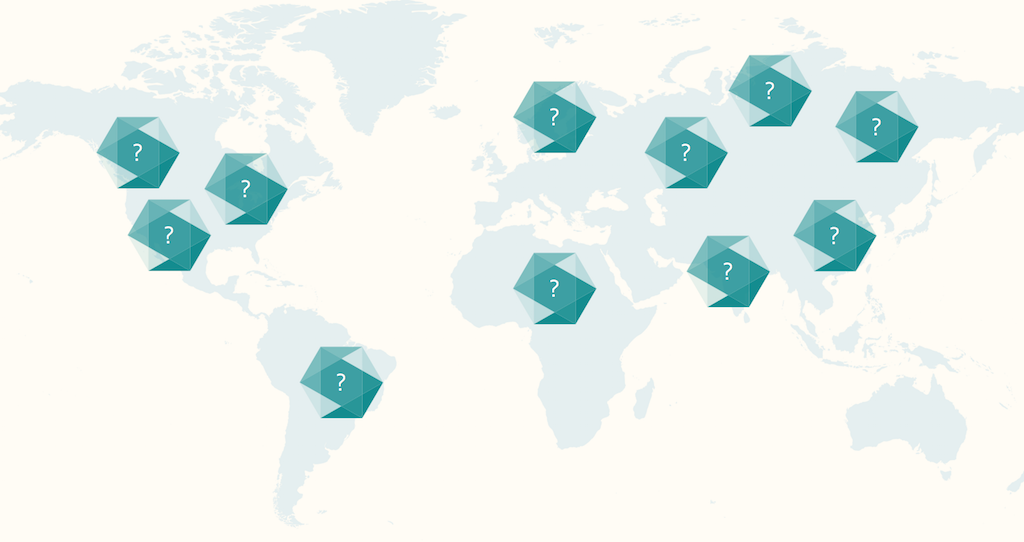
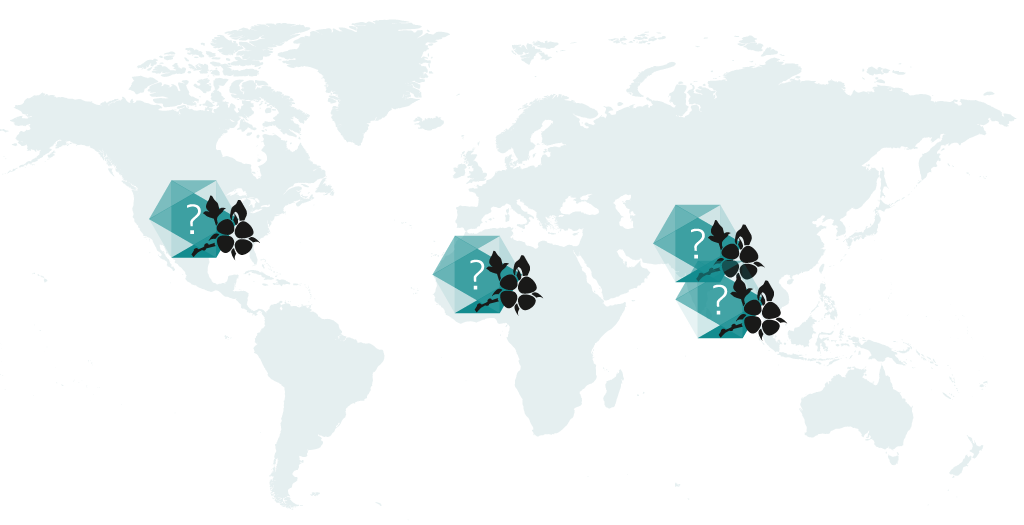
maps for textiles and mining

diff --git a/_examples/textiles.html b/_examples/textiles.html
@@ -19,42 +19,25 @@ question: "Where was the cotton used to make my pyjamas grown?"
 stage2Supplier1: "Supplier 77644"
 stage2Supplier2: "Supplier 89224"
 questionFact: "cotton countries of origin"
-factsFound: "10"
+factsFound: "4"
 nextText: "Why choose String3?"
 nextLink: "/why"
 ---
 
+
 <tr>
-	<td><span class="flag-icon flag-icon-ru"></span> Russia</td>
-	<td>3</td>
-</tr>
-<tr>
-	<td><span class="flag-icon flag-icon-us"></span> USA</td>
+	<td><span class="flag-icon flag-icon-in"></span> India</td>
 	<td>2</td>
 </tr>
 <tr>
-	<td><span class="flag-icon flag-icon-cn"></span> China</td>
+	<td><span class="flag-icon flag-icon-ml"></span> Mali</td>
 	<td>1</td>
 </tr>
 <tr>
-	<td><span class="flag-icon flag-icon-in"></span> India</td>
+	<td><span class="flag-icon flag-icon-us"></span> USA</td>
 	<td>1</td>
 </tr>
-<tr>
-	<td><span class="flag-icon flag-icon-br"></span> Brazil</td>
-	<td>1</td>
-</tr>
-<tr>
-	<td><span class="flag-icon flag-icon-ca"></span> Canada</td>
-	<td>1</td>
-</tr>
-<tr>
-	<td><span class="flag-icon flag-icon-ng"></span> Nigeria</td>
-	<td>1</td>
-</tr>
-<tr>
-	<td><span class="flag-icon flag-icon-se"></span> Sweden</td>
-	<td>1</td>
-</tr>
+
+
 
 

diff --git a/_sass/design/example.scss b/_sass/design/example.scss
@@ -702,6 +702,12 @@
 			display:block;
 		}
 	}
+	.map-step {
+		min-height:0px;
+		.step-holder {
+			margin-bottom:45%;
+		}
+	}
 	.routing-step {
 		.suppliers {
 			width:92%;
